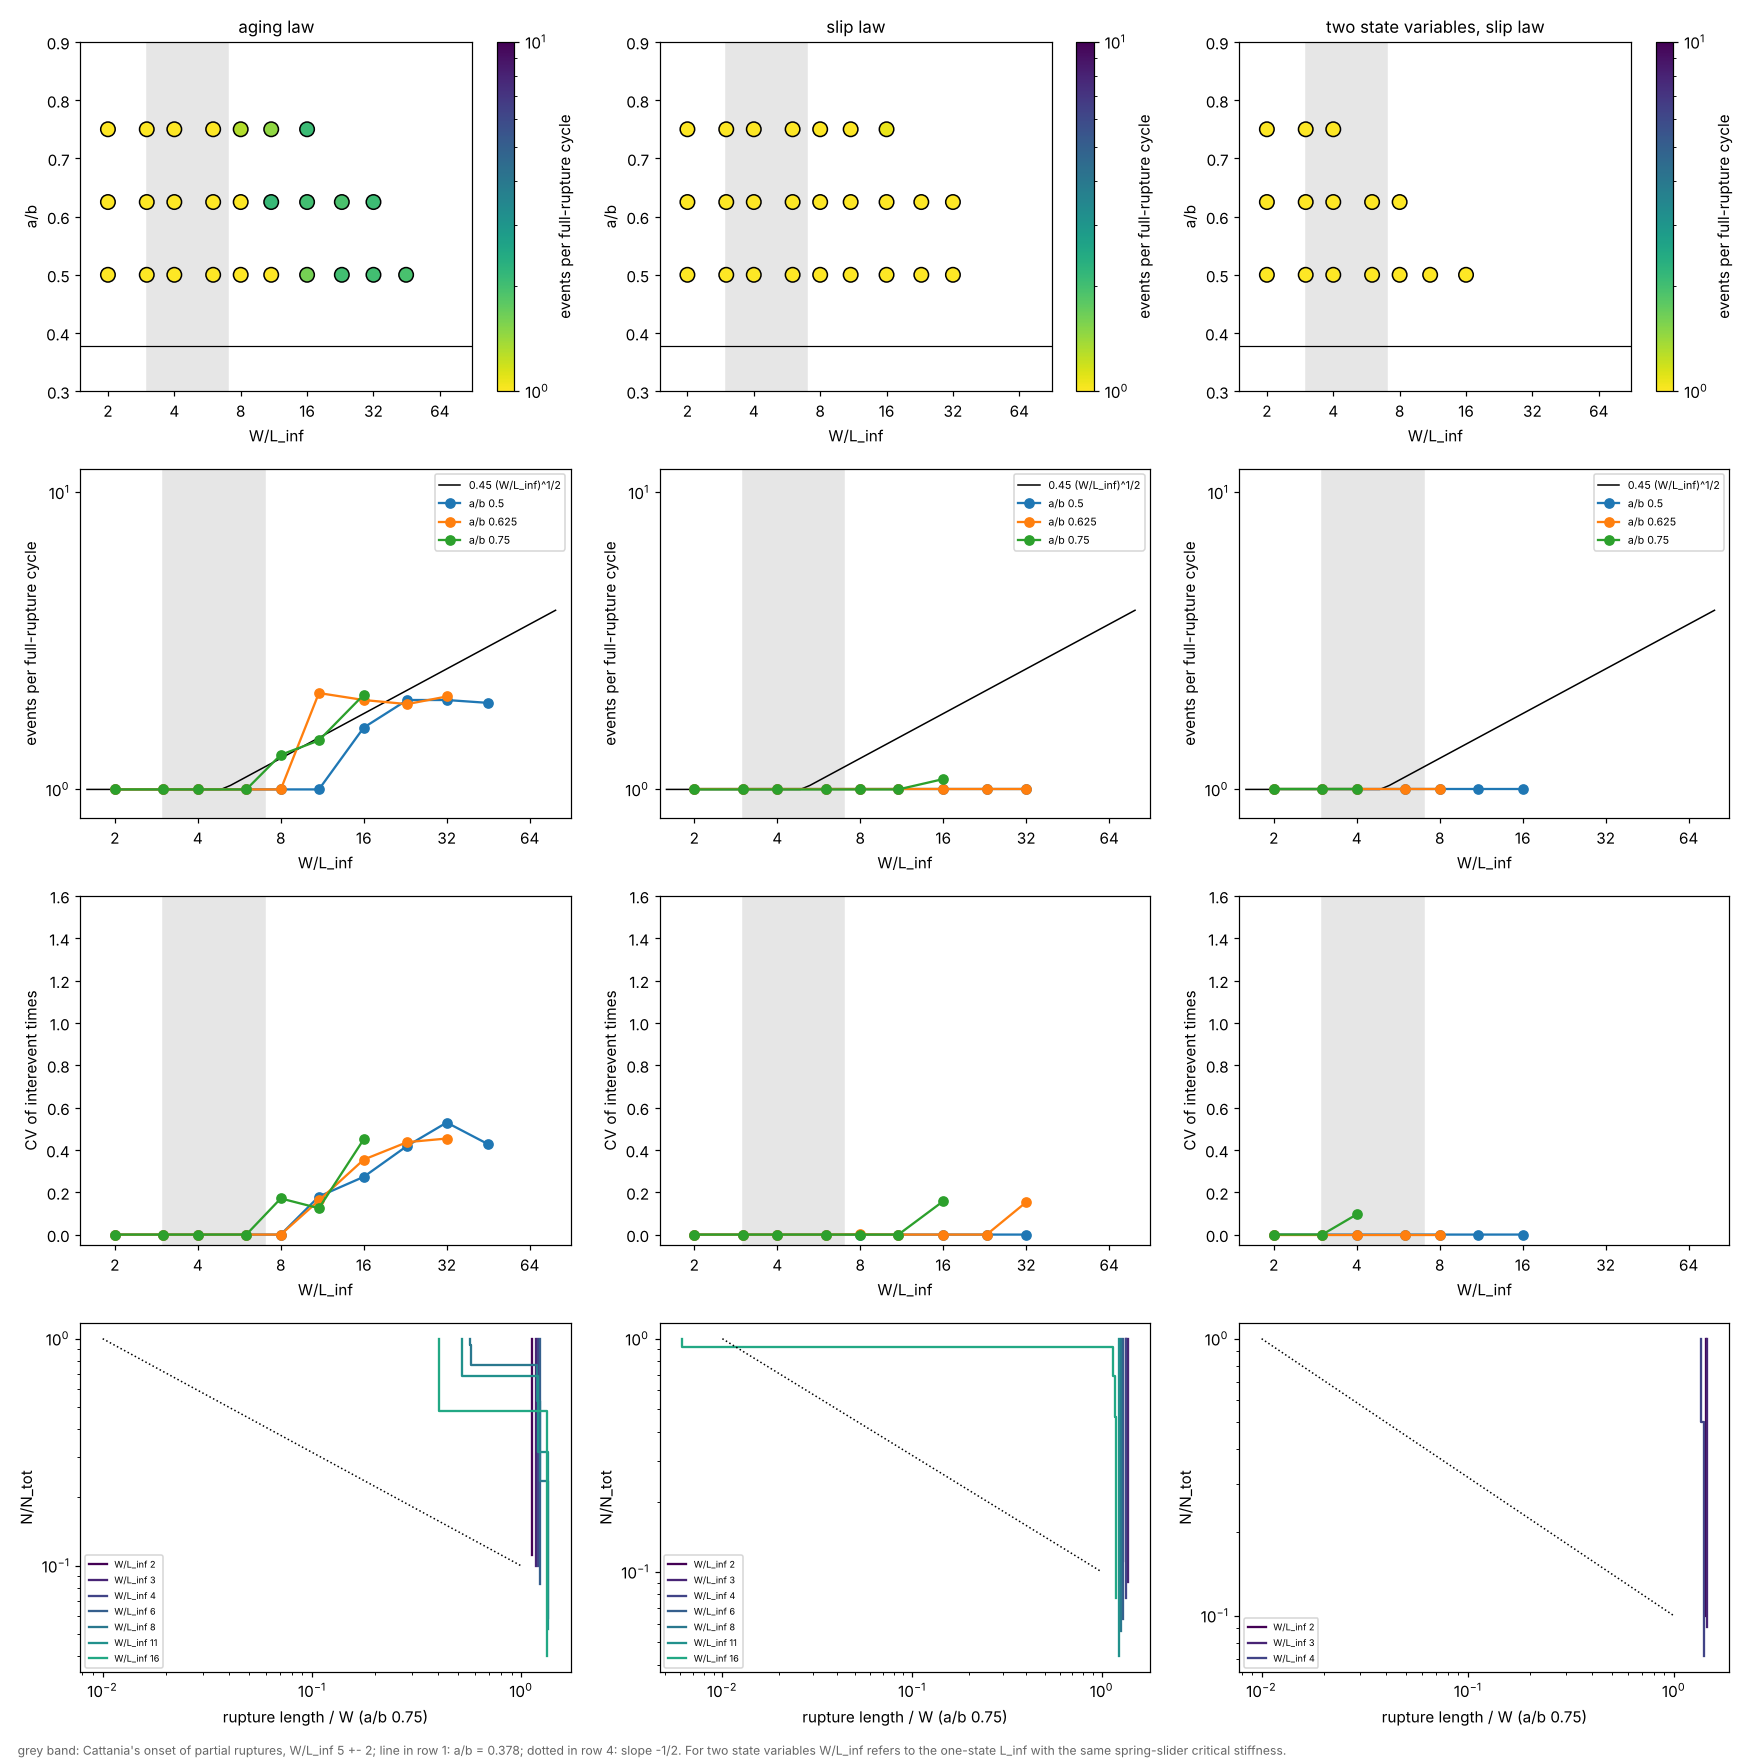
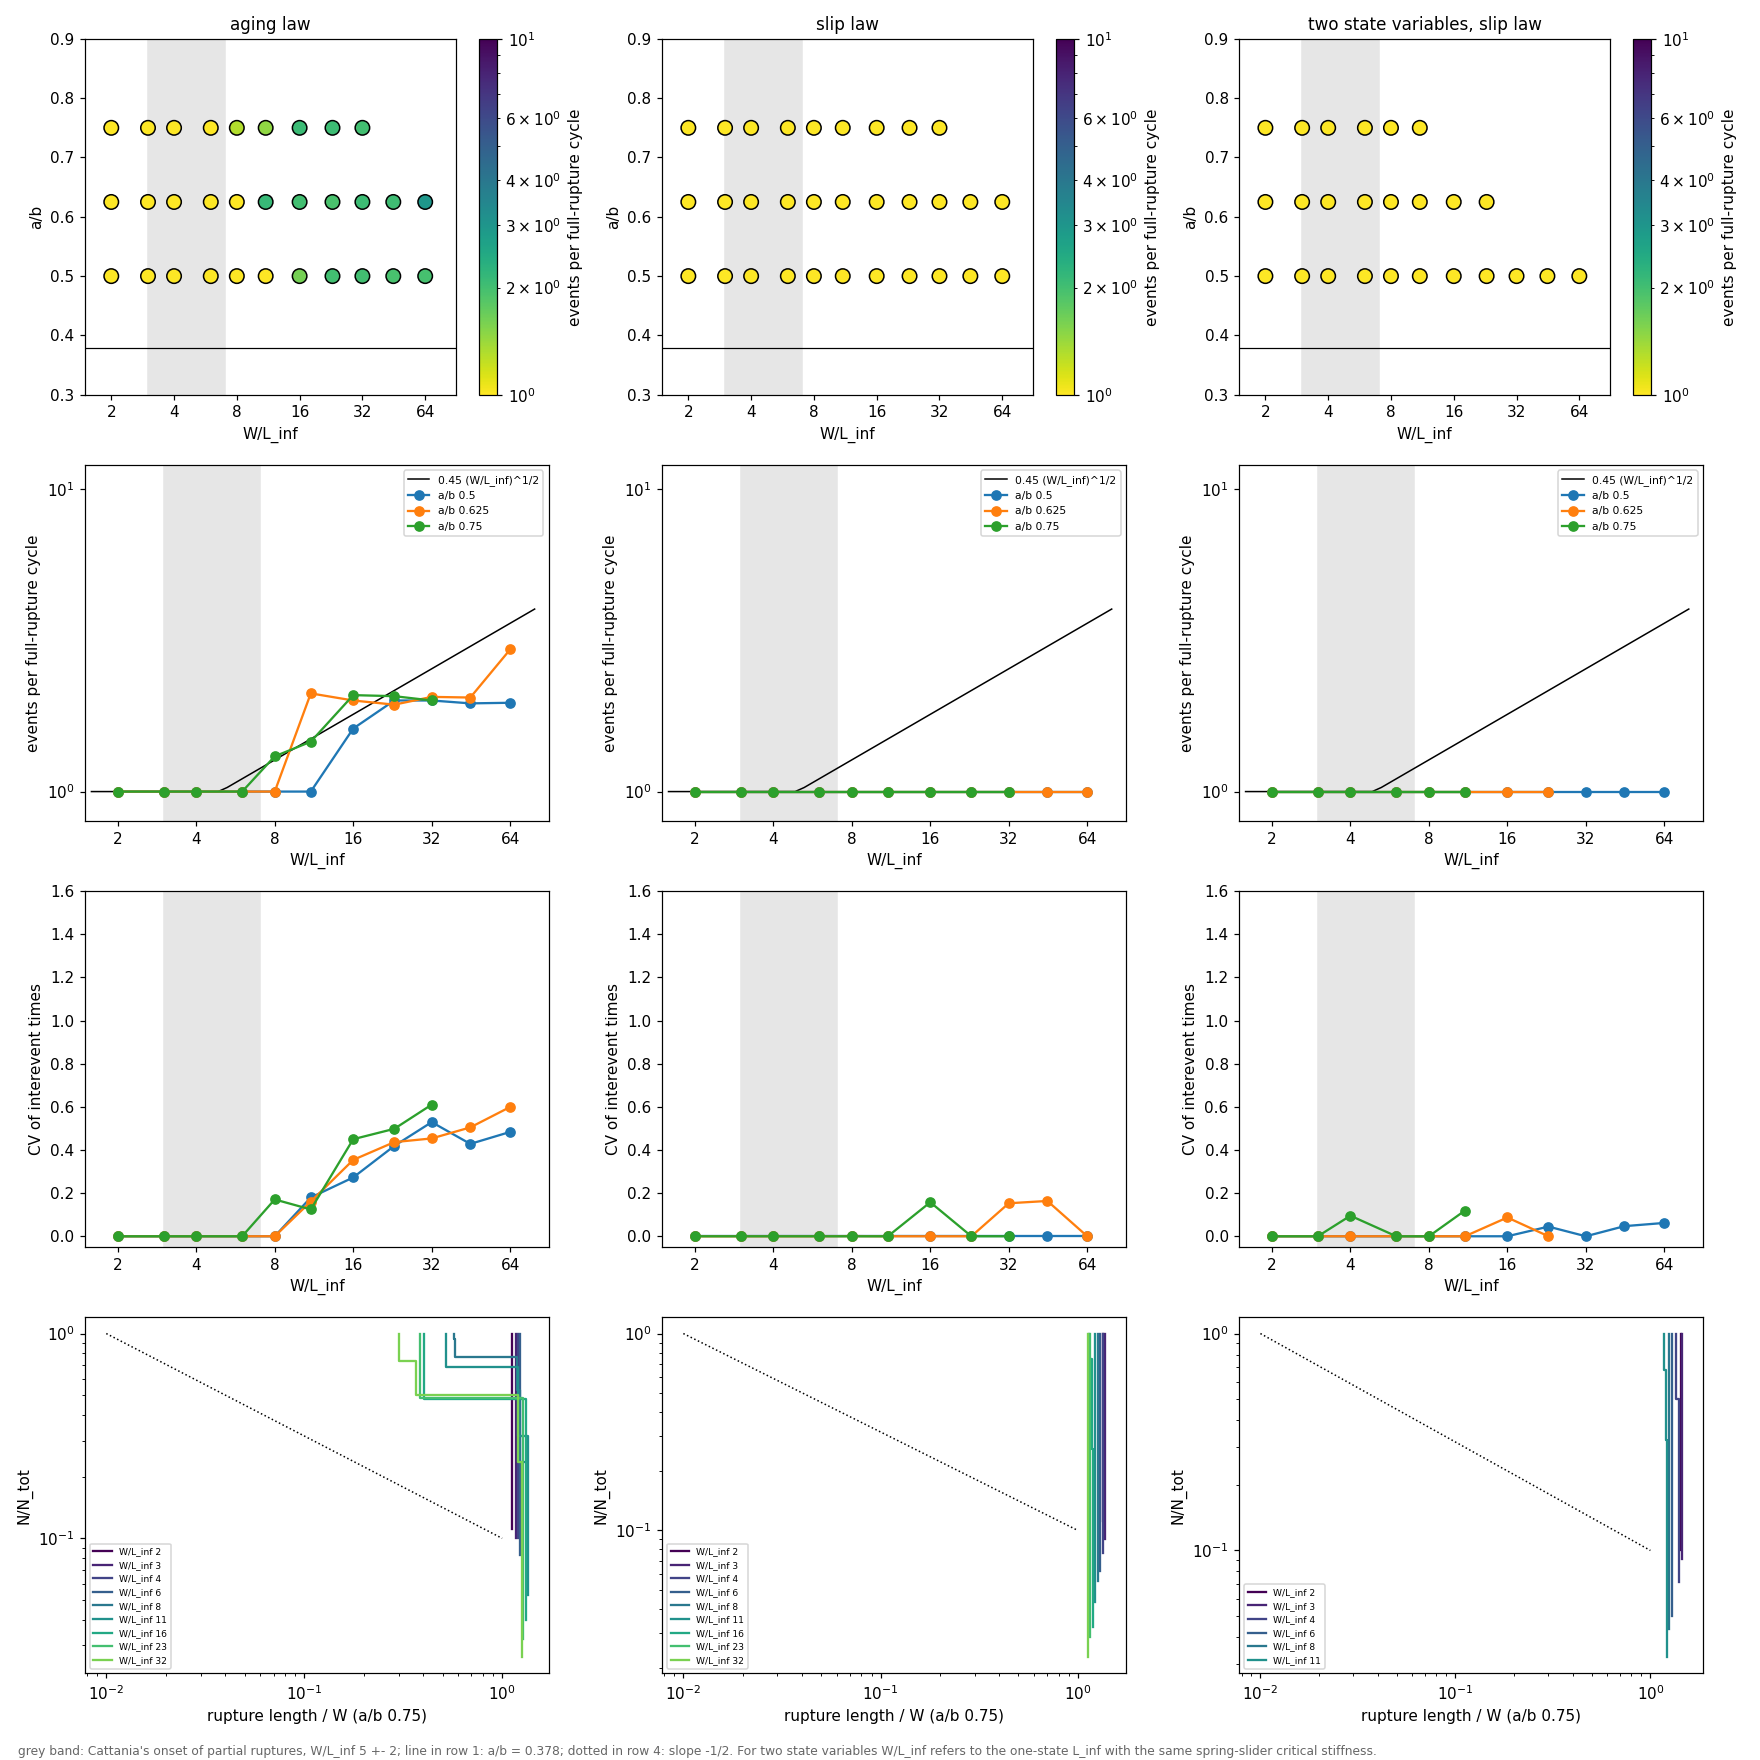
more trest for c

diff --git a/strike_slip_networks/antiplane_2d/README.md b/strike_slip_networks/antiplane_2d/README.md
@@ -256,35 +256,47 @@ coloured by events per full-rupture cycle, events per cycle against
 0.45 (W/L_inf)^1/2, CV of interevent times, rupture-length survival
 functions) and writes cattania_space.txt.
 
-Results (2026-11-10; single runs, 30 recurrence estimates each; runs
-completed: aging to W/L_inf 45, 32, 16 for a/b 0.5, 0.625, 0.75; slip to
-32, 32, 16; two-state to 16, 8, 4, limited by cost):
+Results (2026-11-11; single runs, 30 recurrence estimates each, cells
+up to 1500, run on a separate machine; cattania_space.txt and .png):
+W/L_inf up to 64 at a/b 0.5 and 0.625 and 32 at 0.75 for the aging and
+slip laws; two-state runs up to 64, 23 and 11.
 
-| a/b | law | first W/L_inf with partial ruptures | events per cycle at the largest W/L_inf run | CV there |
+| a/b | law | partial ruptures from W/L_inf | events per full-rupture cycle at W/L_inf 16, 32, 64 | CV at 16, 32, 64 |
 |---|---|---|---|---|
-| 0.5 | aging | 16 (11: irregular timing, CV 0.18, all full) | 1.96 (45) | 0.43 |
-| 0.625 | aging | 11 | 2.06 (32) | 0.45 |
-| 0.75 | aging | 8 | 2.08 (16) | 0.45 |
-| 0.5 | slip | none up to 32 | 1.00 | 0.00 |
-| 0.625 | slip | none up to 32 (32: CV 0.15, all full) | 1.00 | 0.15 |
-| 0.75 | slip | 16 (1.08 events per cycle) | 1.08 (16) | 0.16 |
-| 0.5 | two-state | none up to 16 | 1.00 | 0.00 |
-| 0.625 | two-state | none up to 8 | 1.00 | 0.00 |
-| 0.75 | two-state | none up to 4 (CV 0.10 at 4) | 1.00 | 0.10 |
+| 0.5 | aging | 16 (11: all full, CV 0.18) | 1.62, 2.00, 1.97 | 0.27, 0.53, 0.48 |
+| 0.625 | aging | 11 | 2.00, 2.06, 2.95 | 0.35, 0.45, 0.60 |
+| 0.75 | aging | 8 | 2.08, 2.00, - | 0.45, 0.61, - |
+| 0.5 | slip | none up to 64 | 1, 1, 1 | 0, 0, 0 |
+| 0.625 | slip | none up to 64 | 1, 1, 1 | 0, 0.15, 0 |
+| 0.75 | slip | none up to 32 | 1, 1, - | 0.16, 0, - |
+| 0.5 | two-state | none up to 64 | 1, 1, 1 | 0, 0, 0.06 |
+| 0.625 | two-state | none up to 23 | 1 (16) | 0.09 (16) |
+| 0.75 | two-state | none up to 11 | 1 (11) | 0.12 (11) |
 
 - Aging law: the onset of partial ruptures moves from W/L_inf 6 to 8 at
   a/b 0.75 to 11 to 16 at a/b 0.5, against a single band of 5 +- 2 in
   Cattania's figure. Above the onset the number of events per cycle
-  stays near 2 from W/L_inf 16 to 45 while her estimate grows to 3.0,
-  so the ratio drops from about 1 to 0.65 at 45. CV grows to 0.4 to 0.5
-  (she reports up to 1.5 at W/L_inf 415, outside this range).
-- Slip law: periodic full ruptures over almost the whole range; the
-  first partial ruptures at a/b 0.75 and W/L_inf 16, i.e. a factor of
-  about 2 later than with the aging law at the same a/b, and none up to
-  W/L_inf 32 at a/b 0.5 and 0.625. Cattania noted that the slip law's
-  smaller nucleation length favours partial ruptures while its smaller
-  fracture energy favours full ones; here the second effect dominates
-  throughout.
-- Two state variables (slip law): periodic full ruptures wherever runs
-  were affordable, like the one-state slip law; the largest W/L_inf
-  could not be reached because of the finer cells.
+  grows in steps: it stays at about 2 from W/L_inf 16 to 64 at a/b 0.5
+  and reaches 3 (2.95) only at 64 for a/b 0.625, whereas her estimate
+  0.45 (W/L_inf)^1/2 grows to 3.6, so the ratio falls from about 1 near
+  the onset to 0.55 at W/L_inf 64. CV grows to 0.4 to 0.6 for W/L_inf
+  23 to 64 (she reports up to 1.5 at W/L_inf 415, outside this range).
+- Slip law: no partial ruptures anywhere up to W/L_inf 64 (32 at a/b
+  0.75); all events are full ruptures, and the few runs with CV 0.15 to
+  0.16 have irregular timing between full ruptures. (An earlier entry
+  here of 1.08 events per cycle at a/b 0.75, W/L_inf 16 came from a run
+  stopped at a third of its length; the complete run has 1.00.) The
+  number of events per run is similar to the aging law's total number
+  of events (partial plus full; e.g. 66 against 57 at a/b 0.5, W/L_inf
+  64), i.e. events start about as often as with the aging law, but each
+  one breaks the whole fault. In Cattania's terms the slip needed for a
+  full rupture stays below the slip needed to nucleate an event; she
+  noted that the slip law's smaller fracture energy would favour full
+  ruptures, and here that effect wins over the whole range. Her
+  W/L_inf uses the aging-law nucleation length; the slip law nucleates
+  at smaller sizes (Ampuero & Rubin 2008), so measured in its own
+  nucleation length these faults are larger still.
+- Two state variables (slip law): no partial ruptures up to W/L_inf 64
+  (a/b 0.5), like the one-state slip law, with CV up to 0.12 and fewer
+  events per run than the one-state slip law at the same W/L_inf (51
+  against 66 at a/b 0.5, 64).
